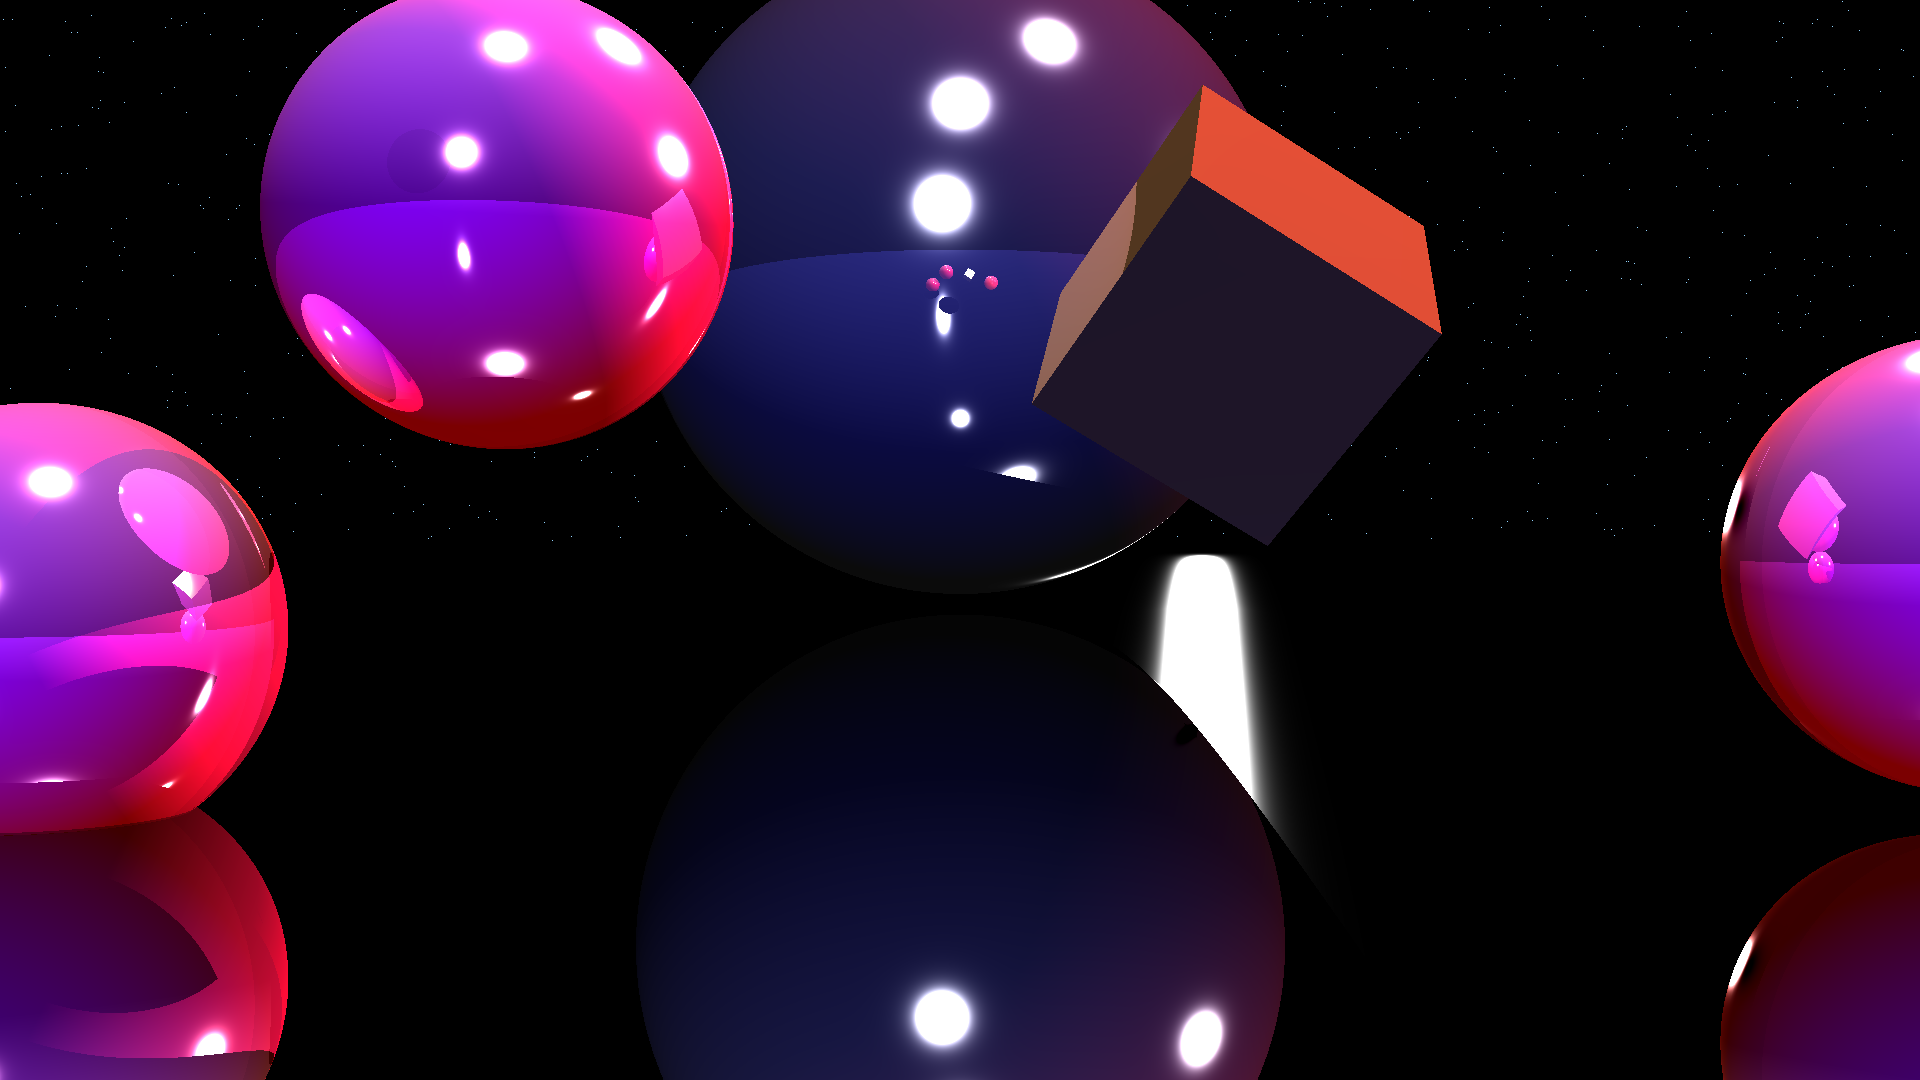
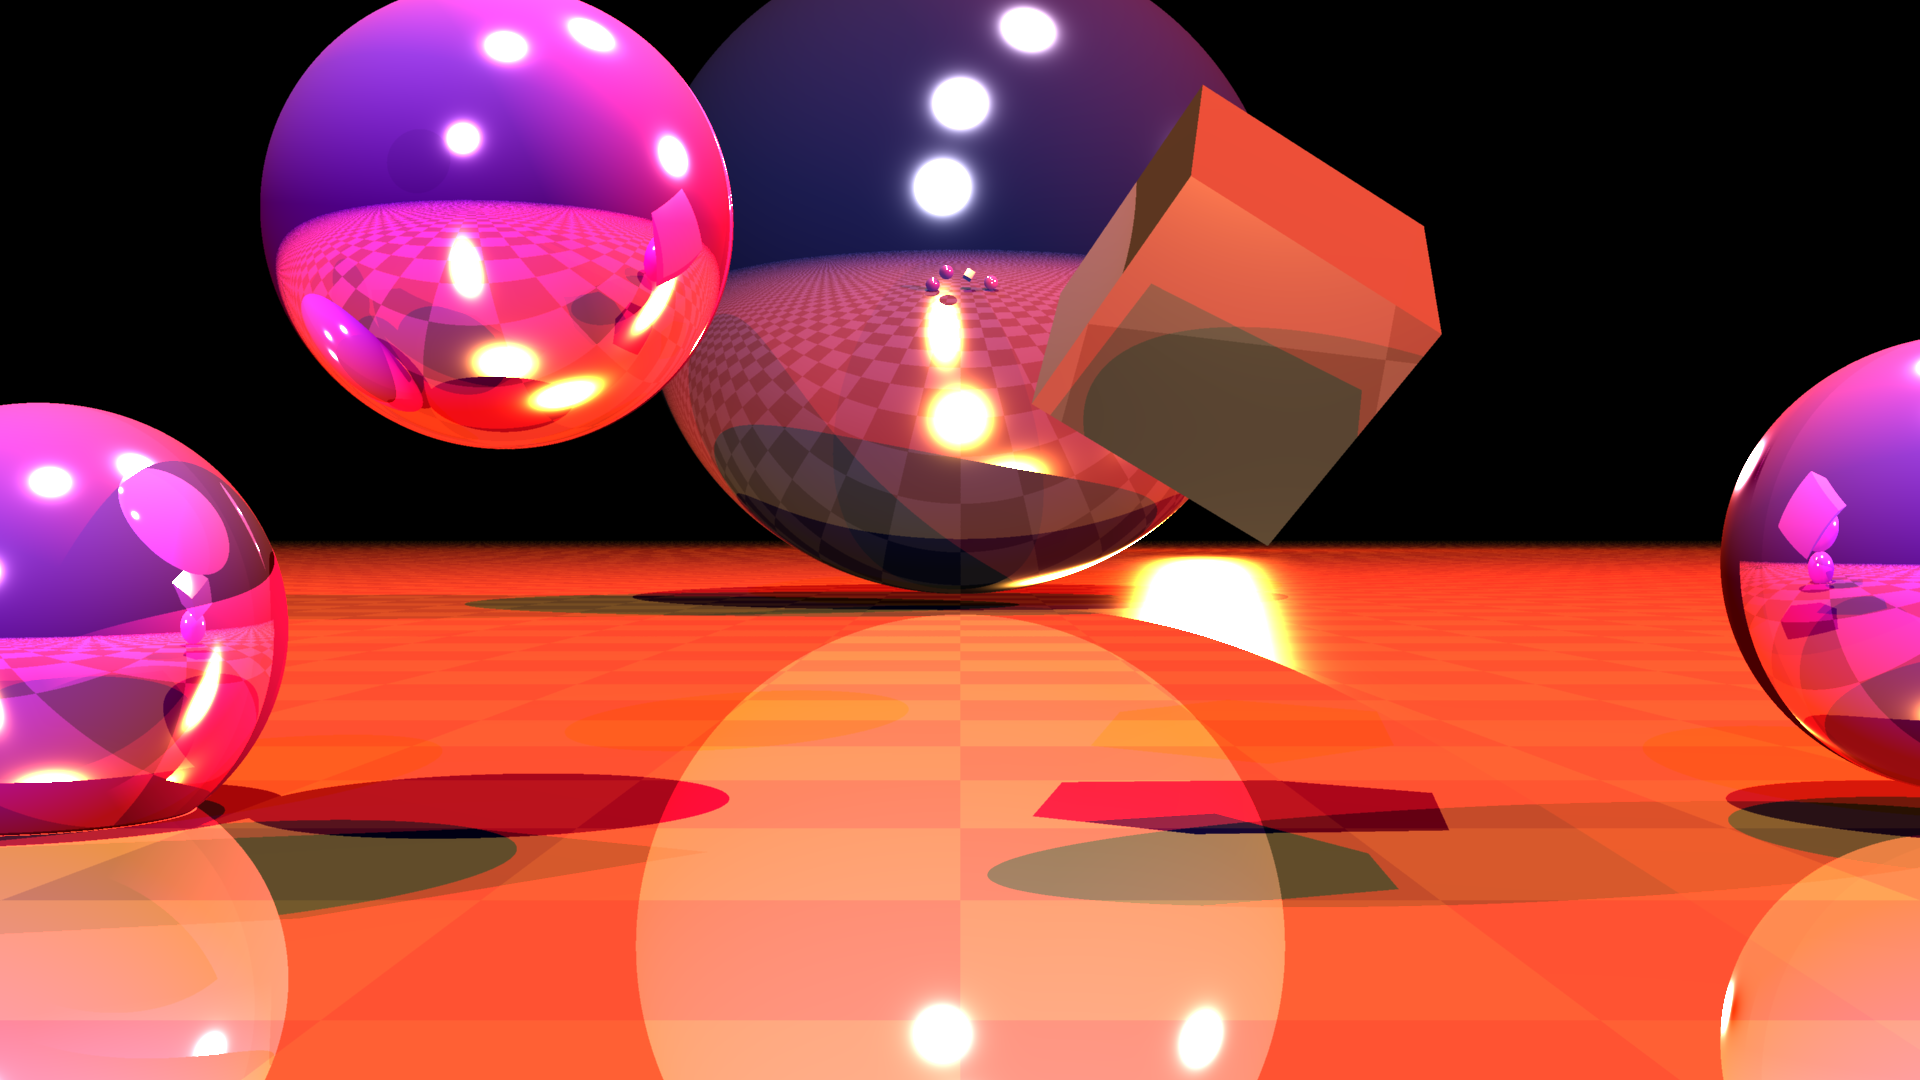
Added antialiasing

diff --git a/src/main/Renderer.java b/src/main/Renderer.java
@@ -18,10 +18,13 @@ import java.util.concurrent.ExecutorService;
 import java.util.concurrent.Executors;
 import java.util.concurrent.ThreadLocalRandom;
 import java.util.concurrent.TimeUnit;
+import java.util.stream.DoubleStream;
 
 public class Renderer {
-    private final boolean spiralRender = true;
-    private final boolean randomRendering = false;
+    private final boolean SPIRAL_RENDER = true;
+    private final boolean REVERSE_SPIRAL = true;
+    private final boolean RANDOM_RENDER = false;
+    private final int SSA = 9; // antialiasing
 
     private final double lightsourceFactor; // or a bit of contrast
     private final double epsilon; // the difference that will be subtracted for shadowing
@@ -53,7 +56,7 @@ public class Renderer {
         this.cmax = cmax;
         this.rmax = rmax;
 
-        this.threads = Runtime.getRuntime().availableProcessors();
+        this.threads = 1;
 
         /*
         SETTINGS
@@ -106,12 +109,13 @@ public class Renderer {
         int columnIndex = 0;
 
         try {
-            if (spiralRender) {
+            if (SPIRAL_RENDER) {
                 int rows = 60;
                 int columns = 60;
 
-                List<int[]> spiralOrder = RenderFormat.getSpiralOrder(columns, rows);
-                Collections.reverse(spiralOrder);
+                List<int[]> spiralOrder = RenderSettings.getSpiralOrder(columns, rows);
+                if (REVERSE_SPIRAL)
+                    Collections.reverse(spiralOrder);
 
                 double threadedSpiralScreenHeight = screenHeight / rows;
                 double threadedSpiralScreenWidth = screenWidth / columns;
@@ -144,9 +148,10 @@ public class Renderer {
 
                     while (rowIndex * threadedScreenHeight < screenHeight) {
                         int finalRowIndex = rowIndex;
+
                         es.execute(() -> {
                             double startColumn;
-                            if (randomRendering) {
+                            if (RANDOM_RENDER) {
                                 // random rendering (does work but does not perform a complete render). It's quite funny tho
                                 startColumn = ThreadLocalRandom.current().nextInt((int) screenWidth);
                             } else {
@@ -166,7 +171,7 @@ public class Renderer {
             }
 
             es.shutdown();
-            es.awaitTermination(1, TimeUnit.MINUTES);
+            es.awaitTermination(10, TimeUnit.MINUTES);
         } catch (
                 InterruptedException e) {
             e.printStackTrace();
@@ -179,56 +184,70 @@ public class Renderer {
 
     private void traceRegion(double startColumn, double endColumn, double startRow, double finishRow, double h, double w) {
         for (double r = startRow; r <= finishRow - 1; r++) { // nRows
-            for (double c = startColumn; c <= endColumn - 1; c++) { //nColumns
-                Vector dir = new Vector(-focallength, -(w - screenWidth * (c / cmax)), -(h - screenHeight * (r / rmax)), 0);
-                //Vector dir = new Vector(-focallength, w * (y * c - 1), h * (z * r - 1), 0);
-                //Vector dir = new Vector(-focallength, (w - screenWidth) * (y * c / cmax), (h - screenHeight) * (z * r / rmax), 0);
+            for (double c = startColumn; c <= endColumn - 1; c++) { // nColumns
+                double[][] rgbValues = new double[SSA][3];
 
-                // create normalized ray
-                Vector normalizedDir = new Vector(Utility.normalize(dir.getCoords()));
-                Ray normalizedRay = new Ray(scene.getCamera().location, normalizedDir);
+                double x = c;
+                double y = r;
 
-                trace(normalizedRay, r, c, w);
-            }
-        }
-    }
+                for (int i = 0; i < SSA; i++) {
+                    if (SSA == 4) {
+                        x = c + RenderSettings.aaFourMap[i][0];
+                        y = r + RenderSettings.aaFourMap[i][1];
+                    } else if (SSA == 9) {
+                        x = c + RenderSettings.aaNineMap[i][0];
+                        y = r + RenderSettings.aaNineMap[i][1];
+                    }
 
-    private void trace(Ray normalizedRay, double r, double c, double w) {
-        Tuple<Object, Intersection> objectIntersection = getHit(normalizedRay);
+                    Vector dir = new Vector(-focallength, -(w - screenWidth * (x / cmax)), -(h - screenHeight * (y / rmax)), 0);
+                    //Vector dir = new Vector(-focallength, w * (y * c - 1), h * (z * r - 1), 0);
+                    //Vector dir = new Vector(-focallength, (w - screenWidth) * (y * c / cmax), (h - screenHeight) * (z * r / rmax), 0);
 
-        Object closestObject = objectIntersection.getObject();
-        Intersection intersectionHit = objectIntersection.getIntersection();
+                    // create normalized ray
+                    Vector normalizedDir = new Vector(Utility.normalize(dir.getCoords()));
+                    Ray normalizedRay = new Ray(scene.getCamera().location, normalizedDir);
 
-        if (closestObject != null) {
-            // p 641
-            // shading
-            // Color: ambient, diffuse, specular
-            double[] rgb = new double[3];
+                    Tuple<Object, Intersection> objectIntersection = getHit(normalizedRay);
 
-            int recurseLevel = 0;
-            getShading(normalizedRay, closestObject, intersectionHit, rgb, recurseLevel, air);
+                    Object closestObject = objectIntersection.getObject();
+                    Intersection intersectionHit = objectIntersection.getIntersection();
 
-            // rgb is now a value between 0 and 1
-            rgb = Arrays.stream(rgb).map(v -> v * 255).toArray();
-            rgb = Arrays.stream(rgb).map(v -> {
-                if (v > 255) v = 255;
-                else if (v < 0) v = 0;
-                return v;
-            }).toArray();
+                    if (closestObject != null) {
+                        // p 641
+                        // shading
+                        // Color: ambient, diffuse, specular
+                        double[] rgb = new double[3];
 
-            int color = ((int) rgb[0] << 16) | ((int) rgb[1] << 8) | (int) rgb[2];
-            buffer.setRGB((int) c, (int) r, color);
-        } else {
-            /*int color = this.skybox.getRGB((int) c, (int) r);
-            buffer.setRGB((int) c, (int) r, color);
-            */
-            if (r < w) {
-                if (new Random().nextDouble(100) < 0.1) {
-                    int color = (145 << 16) | (211 << 8) | 255;
-                    buffer.setRGB((int) c, (int) r, color);
+                        int recurseLevel = 0;
+                        rgbValues[i] = getShading(normalizedRay, closestObject, intersectionHit, rgb, recurseLevel, air);
+
+                    } else {
+                        rgbValues[i] = new double[]{0, 0, 0};
+                    }
                 }
-            } else {
-                buffer.setRGB((int) c, (int) r, 0);
+
+                // get average from all rgb values
+                double[] averageRgbValues = new double[3];
+                // red
+                averageRgbValues[0] = Arrays.stream(rgbValues).flatMapToDouble(v -> DoubleStream.of(v[0])).average().getAsDouble();
+
+                // green
+                averageRgbValues[1] = Arrays.stream(rgbValues).flatMapToDouble(v -> DoubleStream.of(v[1])).average().getAsDouble();
+
+                // blue
+                averageRgbValues[2] = Arrays.stream(rgbValues).flatMapToDouble(v -> DoubleStream.of(v[2])).average().getAsDouble();
+
+
+                // rgb is now a value between 0 and 1
+                averageRgbValues = Arrays.stream(averageRgbValues).map(v -> v * 255).toArray();
+                averageRgbValues = Arrays.stream(averageRgbValues).map(v -> {
+                    if (v > 255) v = 255;
+                    else if (v < 0) v = 0;
+                    return v;
+                }).toArray();
+
+                int color = ((int) averageRgbValues[0] << 16) | ((int) averageRgbValues[1] << 8) | (int) averageRgbValues[2];
+                buffer.setRGB((int) c, (int) r, color);
             }
         }
     }

diff --git a/src/main/Main.java b/src/main/Main.java
@@ -24,9 +24,9 @@ public class Main {
 
         // scene
         Vector lightsourceWhite = new Vector(1800, 0, -2000, 1); // location
-        Vector lightsourceBlue = new Vector(5000, -500, -1500, 1); // location
-        Vector lightsourceRed = new Vector(500, 500, -1500, 1); // location
-        Vector lightsourceOrange = new Vector(-10000, 1500, -1000, 1); // location
+        Vector lightsourceBlue = new Vector(5000, -500, -2000, 1); // location
+        Vector lightsourceRed = new Vector(500, 500, -2000, 1); // location
+        Vector lightsourceOrange = new Vector(-10000, 1500, -2000, 1); // location
         Vector lightsourcePink = new Vector(0, 4000, -2000, 1); // location
 
         Scene scene = new Scene(); // light color

diff --git a/src/main/RenderSettings.java b/src/main/RenderSettings.java
@@ -3,7 +3,12 @@ package main;
 import java.util.ArrayList;
 import java.util.List;
 
-public class RenderFormat {
+public class RenderSettings {
+    public static double[][] aaFourMap = {{-0.5, -0.5}, {0.5, -0.5}, {-0.5, 0.5}, {0.5, 0.5}};
+    public static double[][] aaNineMap = {{-0.5, -0.5}, {0, -0.5}, {0.5, -0.5},
+                                          {-0.5, 0}, {0, 0}, {0.5, 0},
+                                          {-0.5, 0.5}, {0, 0.5}, {0.5, 0.5}};
+
     public static List<int[]> getSpiralOrder(int columns, int rows) {
         int i, k = 0, l = 0;
         int m = rows;
